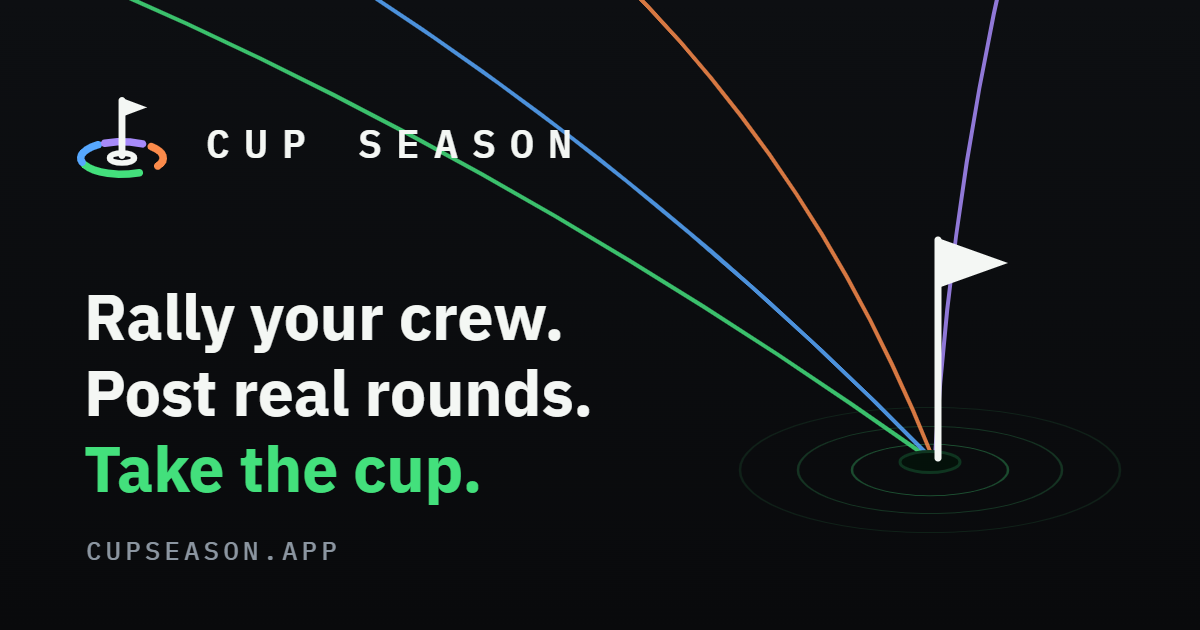
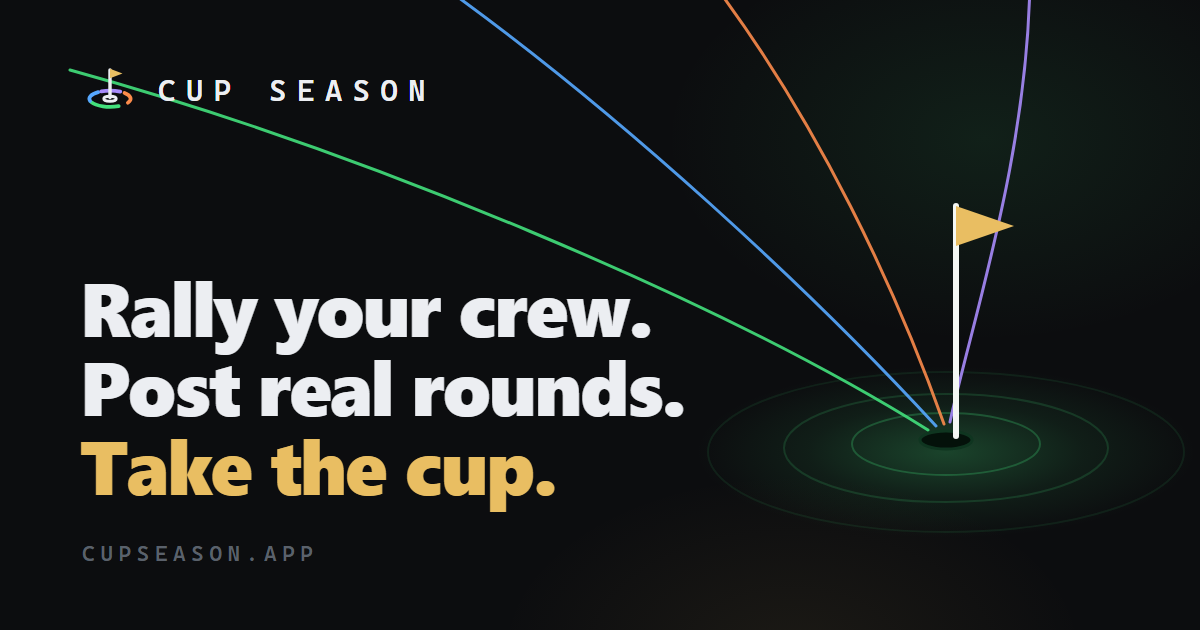
v23.115: refresh the share card — gold flag + gold headline
The OG/share image was pre-gold-pass: green "Take the cup" and a white flag.
Rebuild it to match the current brand — gold pennant, gold headline accent,
green radar + tracers kept. Bump og:image / twitter:image to ?v=2 so social
platforms re-scrape instead of serving the cached old card.

diff --git a/index.html b/index.html
@@ -16,12 +16,12 @@
 <meta property="og:description" content="Rally your crew, post real rounds, take the cup. Season-long fantasy golf with your own foursome.">
 <meta property="og:url" content="https://cupseason.app">
 <meta property="og:type" content="website">
-<meta property="og:image" content="https://cupseason.app/og-image.png">
+<meta property="og:image" content="https://cupseason.app/og-image.png?v=2">
 <meta property="og:image:width" content="1200">
 <meta property="og:image:height" content="630">
 <meta name="twitter:card" content="summary_large_image">
 <meta name="twitter:title" content="Cup Season — fantasy golf for your actual foursome">
-<meta name="twitter:image" content="https://cupseason.app/og-image.png">
+<meta name="twitter:image" content="https://cupseason.app/og-image.png?v=2">
 <title>Cup Season — season-long fantasy golf with your own crew</title>
 <link rel="preconnect" href="https://fonts.googleapis.com">
 <link rel="preconnect" href="https://fonts.gstatic.com" crossorigin>
@@ -1291,7 +1291,7 @@ body::before{
       </div>
             
     </div>
-    <div class="ob-caption" id="obCaption">New or returning, email is one door. No passwords. Just looking? <a href="#" id="obDemoLink" style="color:var(--pos)">Peek at the demo</a>. <span style="opacity:.5">v23.114</span></div>
+    <div class="ob-caption" id="obCaption">New or returning, email is one door. No passwords. Just looking? <a href="#" id="obDemoLink" style="color:var(--pos)">Peek at the demo</a>. <span style="opacity:.5">v23.115</span></div>
   </div>
   <div class="ob-splash" aria-hidden="true"><i></i><i></i><i></i><i></i></div>
   

diff --git a/sw.js b/sw.js
@@ -4,7 +4,7 @@
    same-origin static assets, and hands-off for everything cross-origin
    (Supabase auth/realtime, Google Fonts). Bump VERSION with the client version
    so each deploy retires the previous cache. */
-const VERSION = 'v23.114';
+const VERSION = 'v23.115';
 const CACHE = `cupseason-${VERSION}`;
 const SHELL = [
   '/',